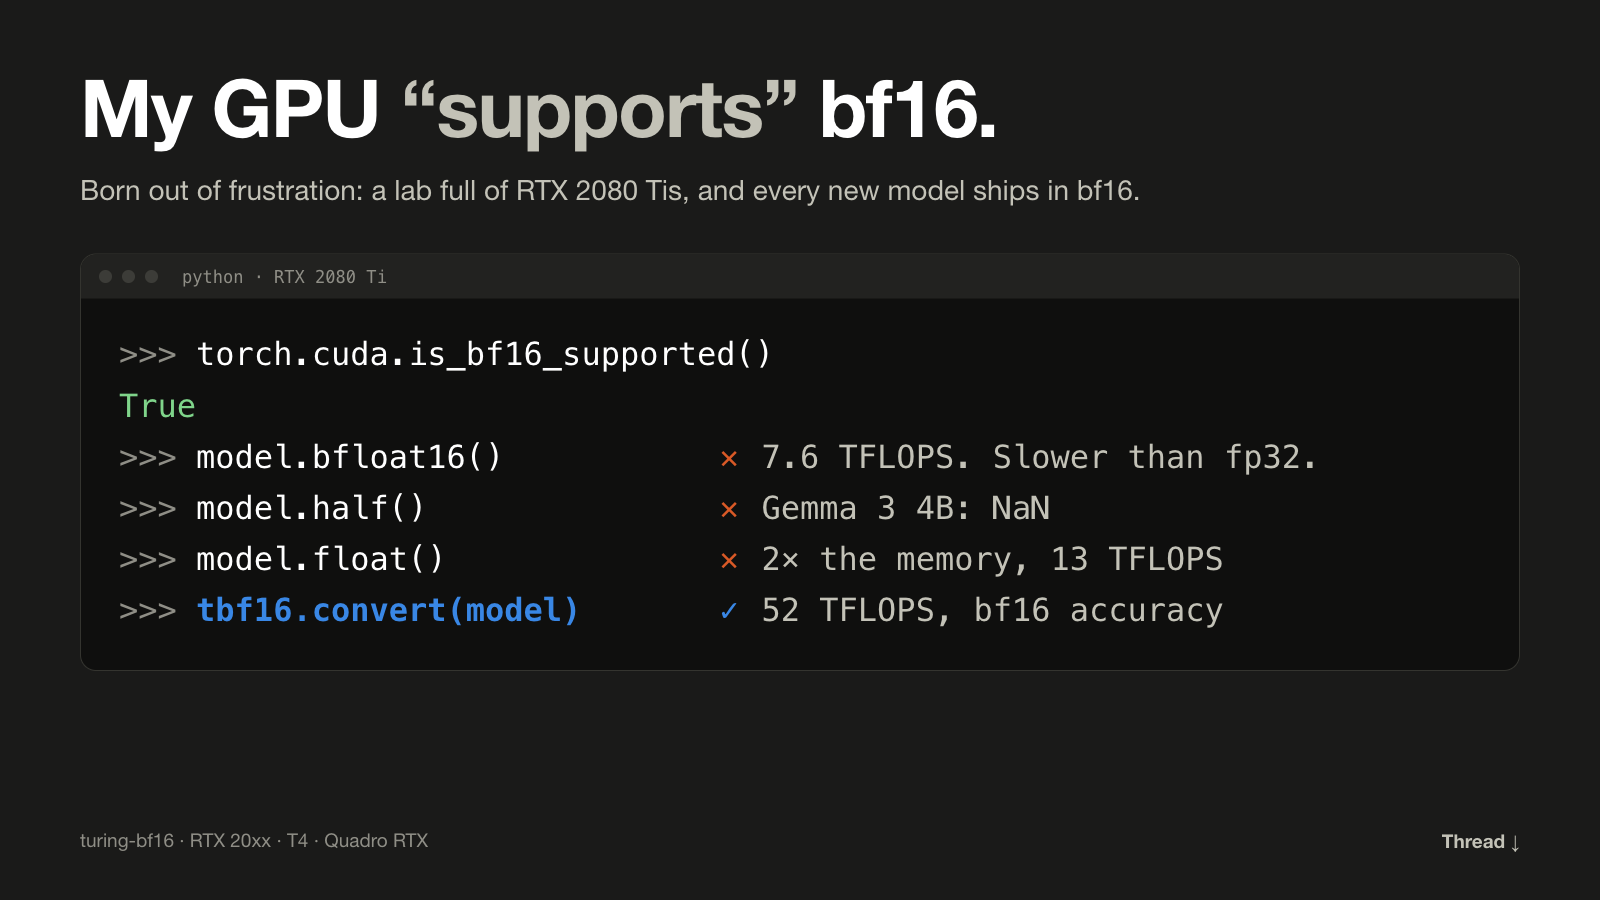
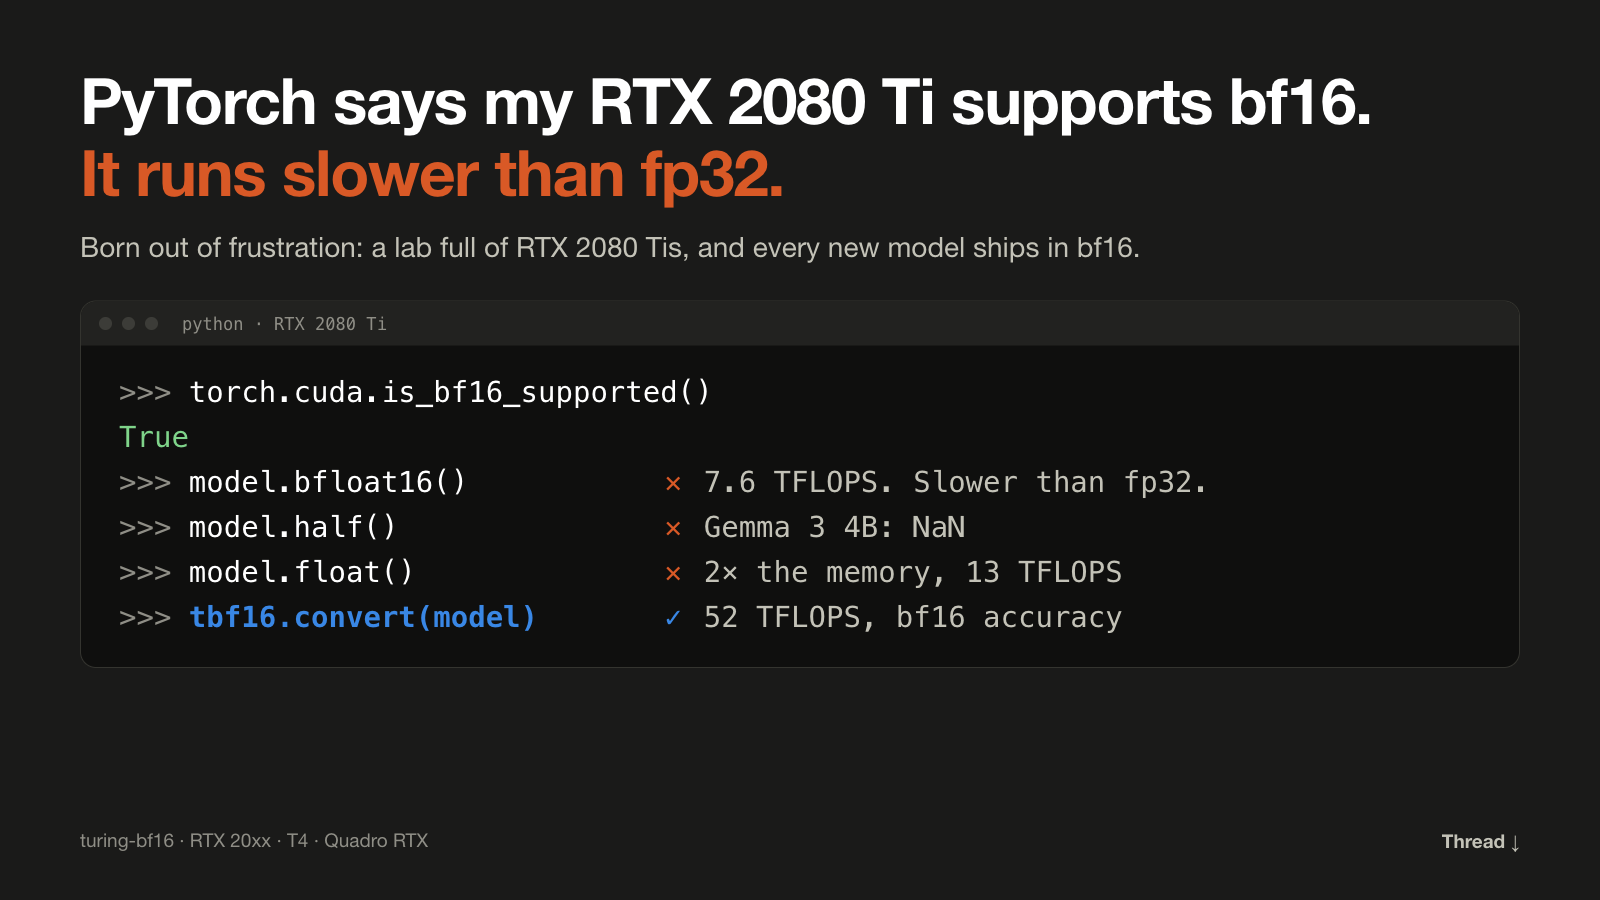
turing-bf16: concrete lead headline (PyTorch says supported; slower than fp32)

Changed region(s): [[0.0312, 0.0622, 0.875, 0.3111], [0.0625, 0.3422, 0.4688, 0.7156], [0.4375, 0.4978, 0.8125, 0.7156]]

diff --git a/docs/social/0_lead.html b/docs/social/0_lead.html
@@ -1,12 +1,12 @@
 <!doctype html><html><head><meta charset="utf-8"><link rel="stylesheet" href="style.css">
 <style>
-h1 { font-size: 80px; }
+h1 { font-size: 64px; line-height: 1.12; }
 h1 .q { color: var(--text-secondary); }
-.term { margin-top: 44px; background: #0f0f0e; border: 1px solid var(--rule); border-radius: 16px; overflow: hidden; }
+.term { margin-top: 34px; background: #0f0f0e; border: 1px solid var(--rule); border-radius: 16px; overflow: hidden; }
 .bar { height: 44px; background: #222220; display: flex; align-items: center; gap: 10px; padding: 0 18px; }
 .bar i { width: 13px; height: 13px; border-radius: 50%; background: #3c3c38; display: inline-block; }
 .bar span { margin-left: 14px; font-size: 17px; color: var(--text-muted); font-family: "JetBrains Mono", "SF Mono", Menlo, monospace; }
-pre { font-family: "JetBrains Mono", "SF Mono", Menlo, monospace; font-size: 32px; line-height: 1.6; padding: 30px 38px 34px; color: var(--text-primary); }
+pre { font-family: "JetBrains Mono", "SF Mono", Menlo, monospace; font-size: 29px; line-height: 1.55; padding: 24px 38px 28px; color: var(--text-primary); }
 .p { color: var(--text-muted); }
 .out { color: #7fd48a; }
 .c { color: var(--text-secondary); }
@@ -15,7 +15,7 @@ pre { font-family: "JetBrains Mono", "SF Mono", Menlo, monospace; font-size: 32p
 .hl { color: var(--tbf16); font-weight: 600; }
 .sub { font-size: 28px; margin-top: 20px; }
 </style></head><body class="viz-root"><div class="card">
-<h1>My GPU <span class="q">“supports”</span> bf16.</h1>
+<h1>PyTorch says my RTX 2080 Ti supports bf16.<br><span style="color:var(--bf16)">It runs slower than fp32.</span></h1>
 <div class="sub">Born out of frustration: a lab full of RTX 2080 Tis, and every new model ships in bf16.</div>
 <div class="term"><div class="bar"><i></i><i></i><i></i><span>python · RTX 2080 Ti</span></div>
 <pre><span class="p">&gt;&gt;&gt;</span> torch.cuda.is_bf16_supported()

diff --git a/docs/social/thread.md b/docs/social/thread.md
@@ -1,9 +1,8 @@
 1/ [image: 0_lead.png]
-My GPU "supports" bf16.
+PyTorch says my RTX 2080 Ti supports bf16:
+torch.cuda.is_bf16_supported() → True
 
-torch.cuda.is_bf16_supported() → True on an RTX 2080 Ti or T4.
-
-Then bf16 runs slower than fp32.
+Then it runs bf16 slower than fp32.
 
 Out of pure frustration, we built turing-bf16 🧵
 
